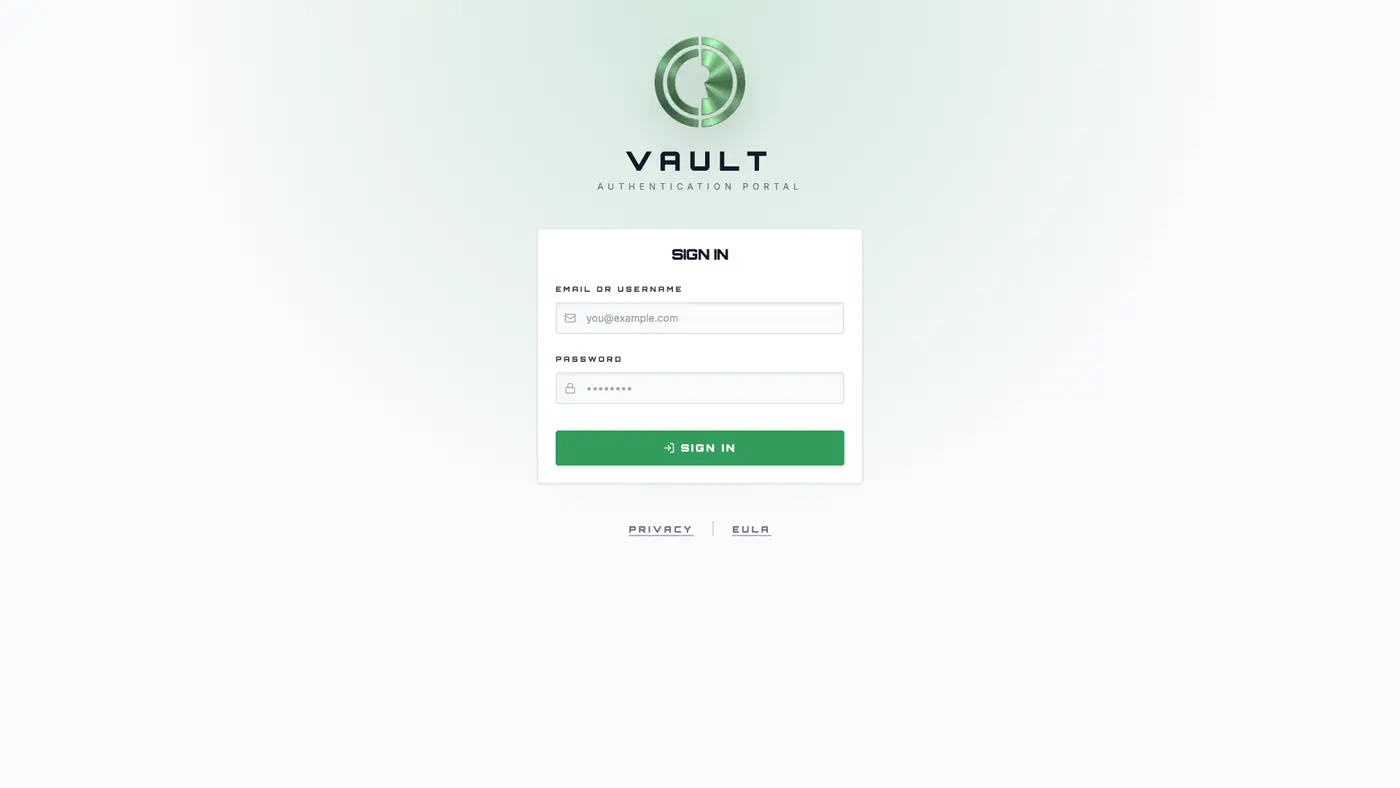
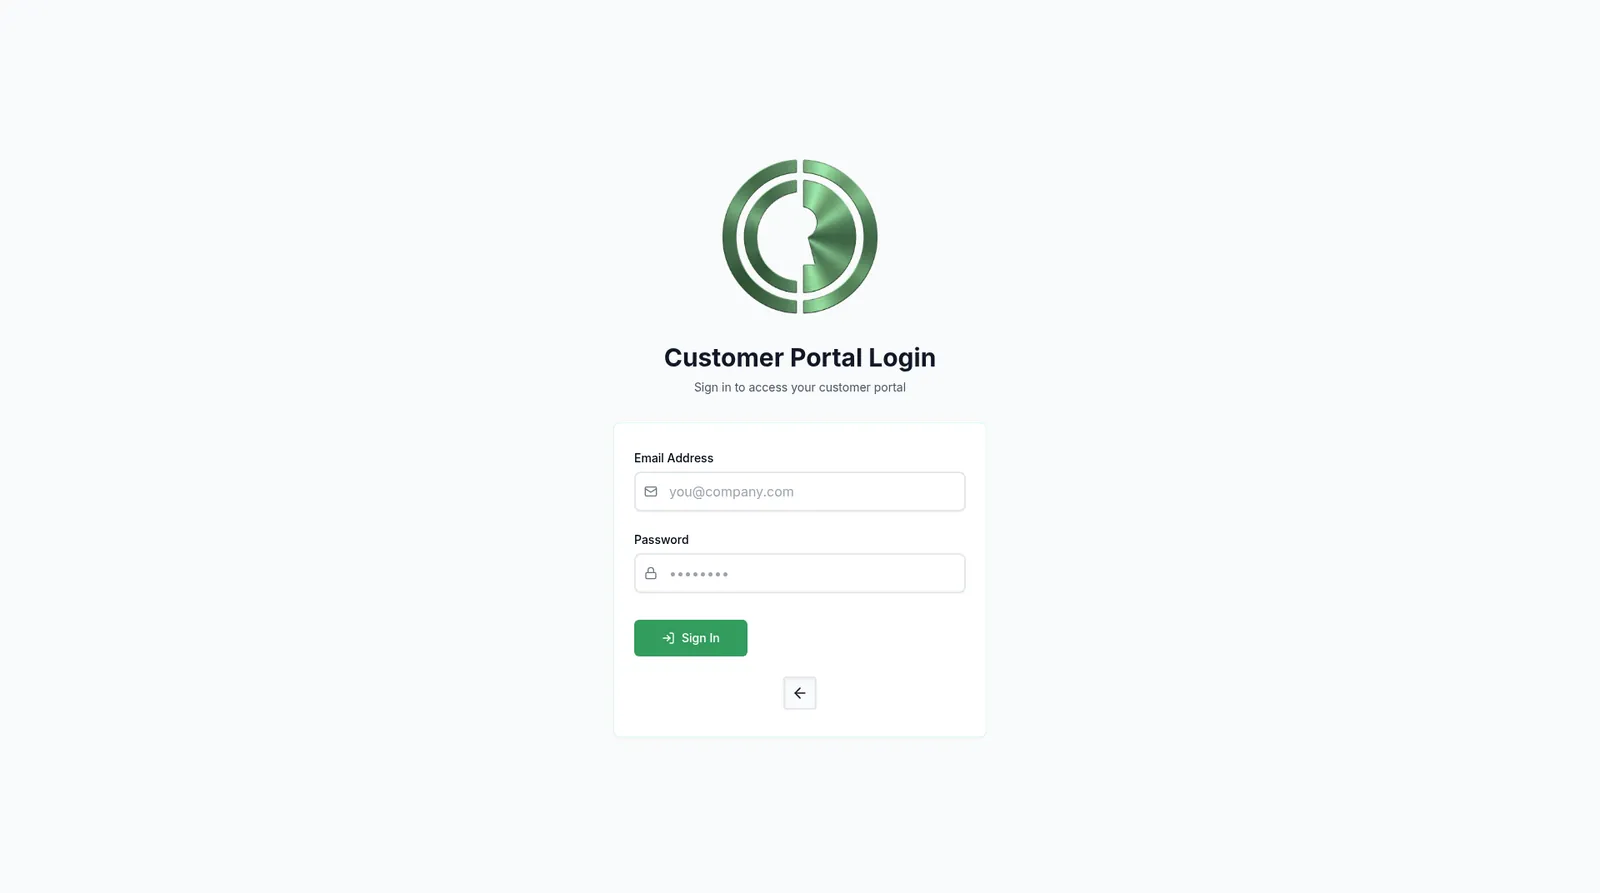
Show the Vault customer portal instead of the staff app.
Replace the staff screenshots on software.html with Example Company portal shots: dashboard, equipment, projects, referrals, a calibration report, analytics, and desktop plus phone login. The admin-preview sidebar link is painted out, and the technician field reads J. Smith.

diff --git a/software.html b/software.html
@@ -1006,6 +1006,8 @@
             .vp-hero h1 { font-size: 1.8rem; }
             .vp-hero-sub { font-size: 0.95rem; margin-bottom: 28px; }
             .vp-hero-screenshot { margin-top: 40px; }
+            .vp-login-pair { flex-direction: column; align-items: center; }
+            .vp-phone { width: 200px; flex-basis: auto; }
             .vp-hero-logo { width: 36px; height: 36px; }
             .vp-hero-logo-text { font-size: 1.1rem; }
             .vp-hero-logo-wrap { margin-bottom: 16px; }
@@ -1092,6 +1094,28 @@
             display: block;
             background: #fff;
             border-radius: 6px;
+        }
+        .vp-login-pair {
+            display: flex;
+            align-items: center;
+            gap: 1.25rem;
+        }
+        .vp-login-pair .vp-img-frame { flex: 1; min-width: 0; }
+        .vp-phone {
+            flex: 0 0 168px;
+            width: 168px;
+            background: #161616;
+            border: 1px solid #3a3a3a;
+            border-radius: 28px;
+            padding: 10px 8px 12px;
+            box-shadow: 0 22px 48px rgba(0,0,0,.45);
+        }
+        .vp-phone img {
+            width: 100%;
+            height: auto;
+            display: block;
+            border-radius: 18px;
+            background: #fff;
         }
 
     </style>
@@ -1277,7 +1301,7 @@
                     <div class="vp-hero-screenshot">
                         <div class="vp-glow-border"></div>
                         <div class="vp-img-wrap">
-                            <img src="images/vault/dashboard.webp" alt="The Vault dashboard" width="1024" height="640" loading="eager">
+                            <img src="images/vault/dashboard.webp" alt="Example Company dashboard in The Vault customer portal" width="1920" height="1072" fetchpriority="high" decoding="async">
                         </div>
                     </div>
                 </div>
@@ -1424,7 +1448,7 @@
                         <div class="vp-img-frame">
                             <div class="vp-glow-border" style="background:linear-gradient(180deg, rgba(177,100,43,0.2), transparent 50%)"></div>
                             <div class="vp-img-wrap">
-                                <img src="images/vault/assets-list.webp" alt="Complete Asset Inventory" width="800" height="500" loading="lazy">
+                                <img src="images/vault/assets.webp" alt="All equipment in the customer portal" width="1920" height="1072" loading="lazy" decoding="async">
                             </div>
                         </div>
                     </div>
@@ -1450,7 +1474,7 @@
                             <p>Create calibration and testing requests with priority levels, preferred scheduling, and special requirements &mdash; tracked in real time.</p>
                         </div>
                         <div class="vp-card-img">
-                            <img src="images/vault/jobs-list.webp" alt="Project list in The Vault" width="600" height="400" loading="lazy">
+                            <img src="images/vault/projects.webp" alt="Customer projects in The Vault" width="1920" height="1072" loading="lazy" decoding="async">
                         </div>
                     </div>
                     <div class="vp-card vp-fade" style="transition-delay:150ms">
@@ -1463,7 +1487,7 @@
                             <p>Share your unique referral code with industry peers. When they sign up, you both benefit &mdash; it's that simple.</p>
                         </div>
                         <div class="vp-card-img">
-                            <img src="images/vault/referrals.webp" alt="Referral Program" width="600" height="400" loading="lazy">
+                            <img src="images/vault/referrals.webp" alt="Referral program in the customer portal" width="1920" height="1072" loading="lazy" decoding="async">
                         </div>
                     </div>
                 </div>
@@ -1675,12 +1699,12 @@
                         <div class="vp-img-frame" style="position:relative">
                             <div class="vp-glow-border" style="background:linear-gradient(180deg, rgba(177,100,43,0.12), transparent 50%)"></div>
                             <div class="vp-img-wrap">
-                                <img src="images/vault/job-detail.webp" alt="Job detail in The Vault" width="1400" height="782" loading="lazy" decoding="async">
+                                <img src="images/vault/reports.webp" alt="Line hose calibration report in the customer portal" width="1920" height="1072" loading="lazy" decoding="async">
                             </div>
                         </div>
                         <div class="vp-img-frame" style="position:relative;margin-top:1.25rem">
                             <div class="vp-img-wrap">
-                                <img src="images/vault/calibration-report.webp" alt="Calibration report in The Vault" width="1400" height="782" loading="lazy" decoding="async">
+                                <img src="images/vault/analytics.webp" alt="Equipment analytics in the customer portal" width="1920" height="1072" loading="lazy" decoding="async">
                             </div>
                         </div>
                     </div>
@@ -1693,10 +1717,15 @@
             <div class="vp-container">
                 <div class="vp-two-col">
                     <div class="vp-fade">
-                        <div class="vp-img-frame">
-                            <div class="vp-glow-border" style="background:linear-gradient(225deg, rgba(177,100,43,0.15), transparent 50%)"></div>
-                            <div class="vp-img-wrap">
-                                <img src="images/vault/login.webp" alt="Secure Customer Login" width="800" height="500" loading="lazy">
+                        <div class="vp-login-pair">
+                            <div class="vp-img-frame">
+                                <div class="vp-glow-border" style="background:linear-gradient(225deg, rgba(177,100,43,0.15), transparent 50%)"></div>
+                                <div class="vp-img-wrap">
+                                    <img src="images/vault/login.webp" alt="Customer portal login" width="1920" height="1072" loading="lazy" decoding="async">
+                                </div>
+                            </div>
+                            <div class="vp-phone">
+                                <img src="images/vault/login-mobile.webp" alt="Customer portal login on a phone" width="780" height="1688" loading="lazy" decoding="async">
                             </div>
                         </div>
                     </div>
